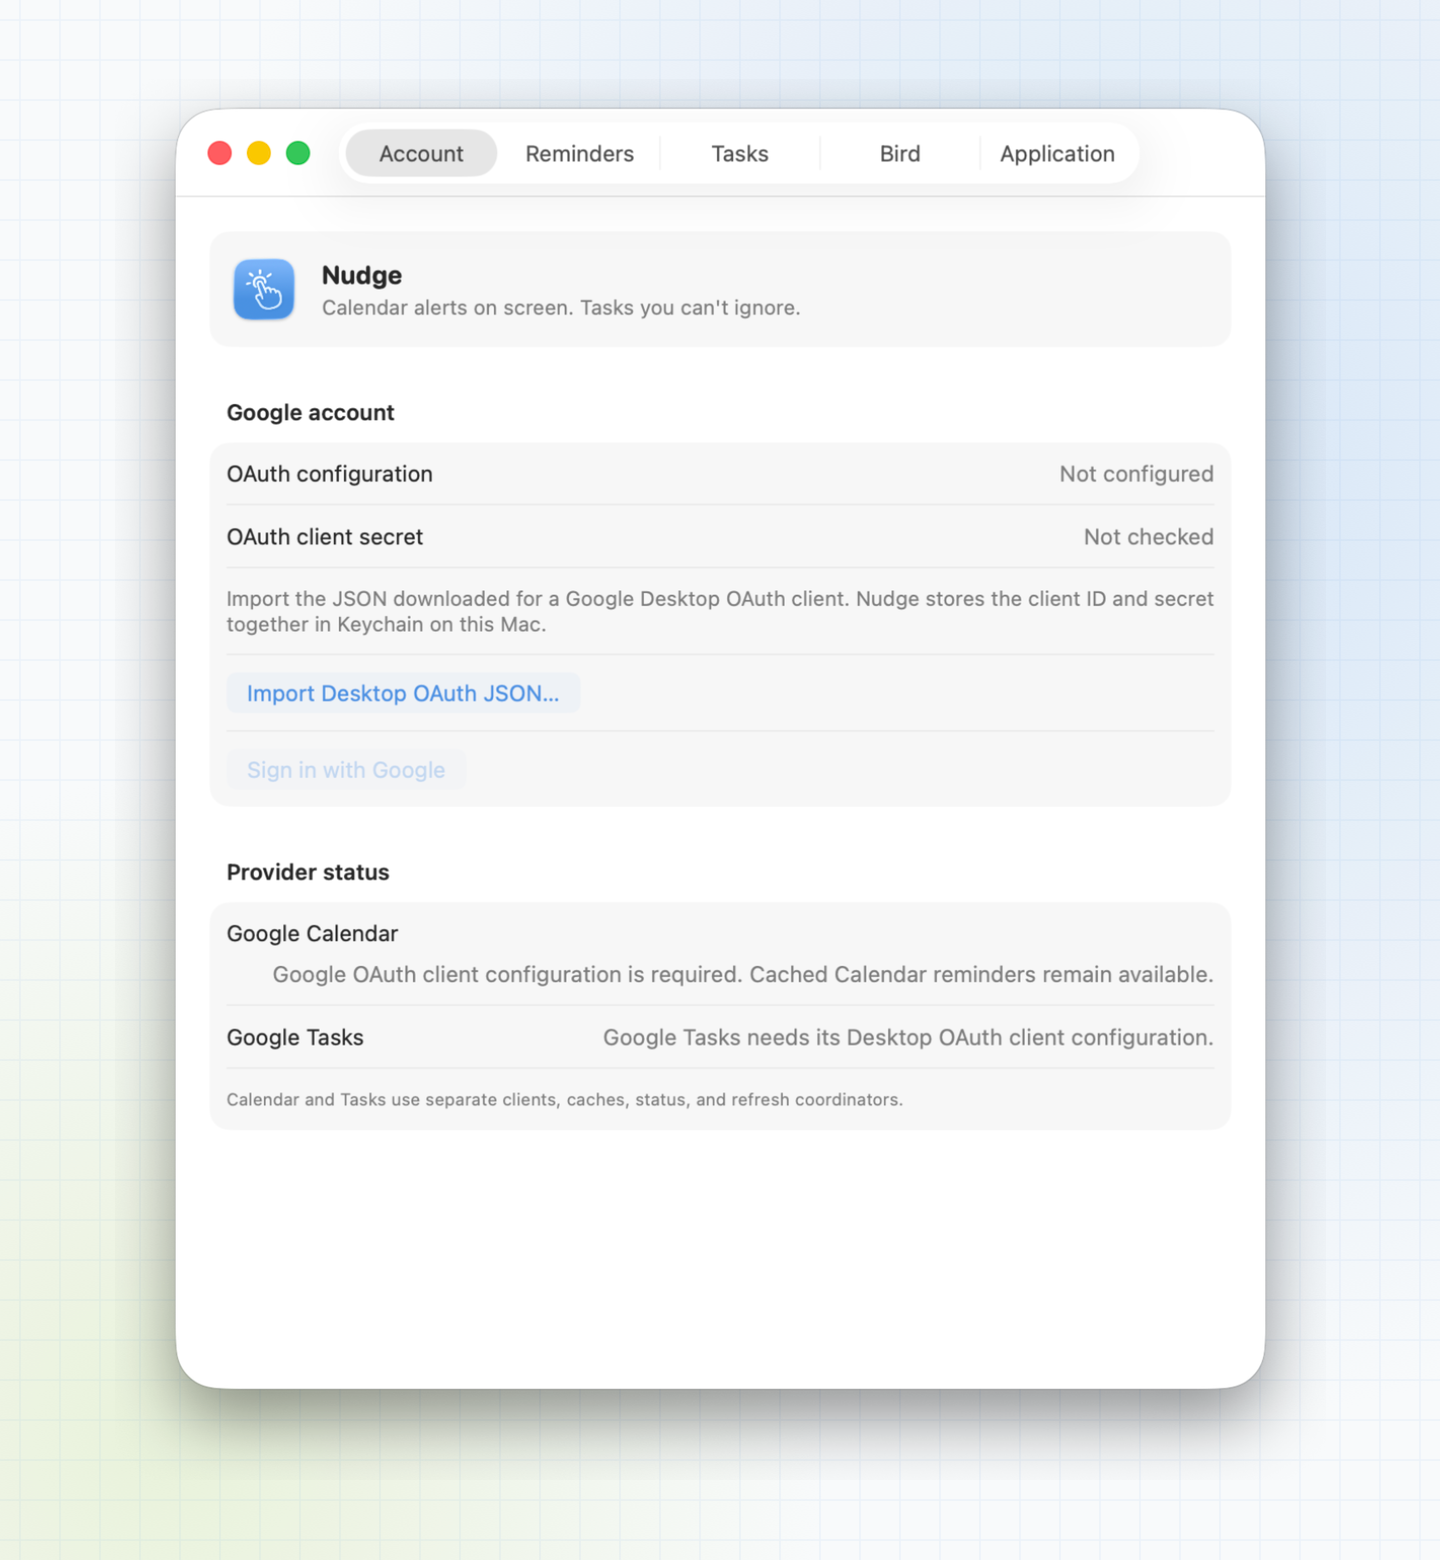
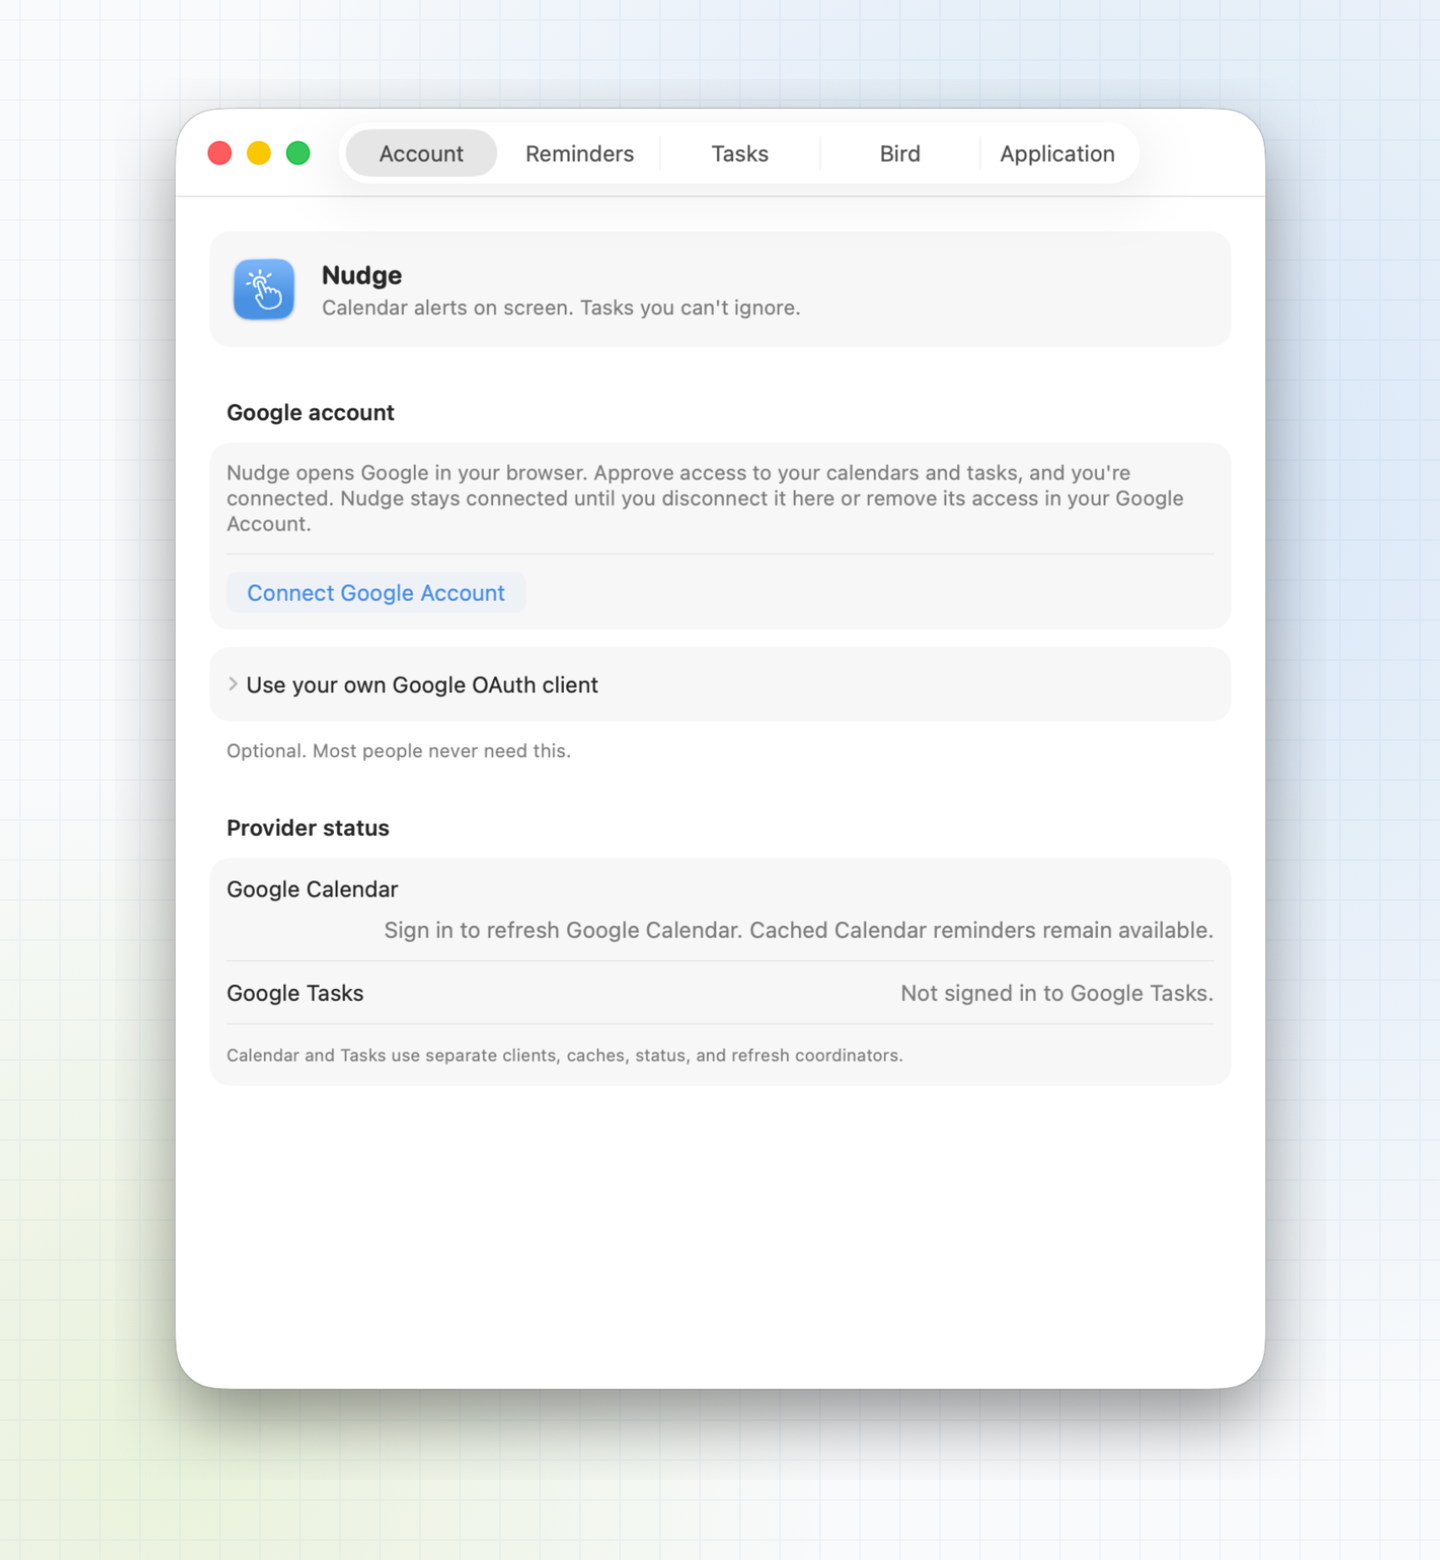
Make Account settings a one-click Google connect
- Show a single Connect Google Account action when the release has a built-in client
- Move OAuth import and client-secret controls into a collapsed "Use your own Google OAuth client" group
- Allow importing a client alongside the built-in one while signed out
- Give the screenshot demo fictional built-in values and recapture the Account page

Changed region(s): [[0.1562, 0.2769, 0.8438, 0.7077]]

diff --git a/Sources/Nudge/Settings/SettingsView.swift b/Sources/Nudge/Settings/SettingsView.swift
@@ -98,90 +98,32 @@ struct SettingsView: View {
             }
 
             Section("Google account") {
-                LabeledContent(
-                    "OAuth configuration",
-                    value: googleOAuthConfigurationManager.source?.label ?? "Not configured"
-                )
-                LabeledContent(
-                    "OAuth client secret",
-                    value: clientSecretStatus
-                )
-
-                if googleOAuthConfigurationManager.source == nil {
+                if usesBuiltInGoogleClient {
                     Text(
-                        "Import the JSON downloaded for a Google Desktop OAuth client. " +
-                            "Nudge stores the client ID and secret together in Keychain on this Mac."
+                        "Nudge opens Google in your browser. Approve access to your calendars " +
+                            "and tasks, and you're connected. Nudge stays connected until you " +
+                            "disconnect it here or remove its access in your Google Account."
                     )
                     .font(.callout)
                     .foregroundStyle(.secondary)
-                } else if googleOAuthConfigurationManager.source == .bundled {
-                    Text("This build includes its Desktop OAuth configuration.")
-                        .font(.callout)
-                        .foregroundStyle(.secondary)
-                } else if googleOAuthConfigurationManager.source == .imported {
-                    Text("The imported Desktop OAuth configuration is stored only in Keychain.")
-                        .font(.callout)
-                        .foregroundStyle(.secondary)
-                }
-
-                if googleOAuthConfigurationManager.source == nil ||
-                    googleOAuthConfigurationManager.source == .imported {
-                    HStack {
-                        Button(
-                            googleOAuthConfigurationManager.hasImportedConfiguration
-                                ? "Import Replacement JSON…"
-                                : "Import Desktop OAuth JSON…"
-                        ) {
-                            isImportingGoogleOAuthConfiguration = true
-                        }
-                        .disabled(!canModifyGoogleOAuthConfiguration)
-
-                        if googleOAuthConfigurationManager.hasImportedConfiguration {
-                            Button("Remove Imported Configuration", role: .destructive) {
-                                removeImportedGoogleOAuthConfiguration()
-                            }
-                            .disabled(!canModifyGoogleOAuthConfiguration)
-                        }
-                    }
-                } else if !googleTasksCoordinator.hasBundledClientSecret {
-                    if !googleTasksCoordinator.hasStoredClientSecret {
-                        HStack {
-                            SecureField(
-                                "Optional desktop client secret",
-                                text: $googleClientSecretDraft.value
-                            )
-                            Button("Save") {
-                                _ = googleClientSecretDraft.save {
-                                    googleTasksCoordinator.saveClientSecret($0)
-                                }
-                            }
-                            .disabled(googleClientSecretDraft.value.isEmpty)
-                        }
-                    } else {
-                        Button("Remove Client Secret") {
-                            googleTasksCoordinator.removeClientSecret()
-                        }
-                        .disabled(
-                            googleTasksCoordinator.isAuthenticated || providerOperationInProgress
-                        )
-                    }
-                }
-
-                if let googleOAuthConfigurationStatusMessage {
-                    Text(googleOAuthConfigurationStatusMessage)
-                        .font(.callout)
-                        .foregroundStyle(.secondary)
-                } else if let secureStoreStatusMessage =
-                    googleOAuthConfigurationManager.secureStoreStatusMessage {
-                    Text(secureStoreStatusMessage)
-                        .font(.callout)
-                        .foregroundStyle(.orange)
+                } else {
+                    oauthClientControls
                 }
 
                 accountAction
 
                 if calendarCoordinator.isAuthenticating || googleTasksCoordinator.isAuthenticating {
                     ProgressView().controlSize(.small)
+                }
+            }
+
+            if usesBuiltInGoogleClient {
+                Section {
+                    DisclosureGroup("Use your own Google OAuth client") {
+                        oauthClientControls
+                    }
+                } footer: {
+                    Text("Optional. Most people never need this.")
                 }
             }
 
@@ -455,6 +397,115 @@ struct SettingsView: View {
         .formStyle(.grouped)
     }
 
+    /// Lets people who build Nudge themselves, or prefer their own Google Cloud project,
+    /// import a Desktop OAuth client instead of the one built into the release.
+    @ViewBuilder
+    private var oauthClientControls: some View {
+        LabeledContent(
+            "OAuth configuration",
+            value: googleOAuthConfigurationManager.source?.label ?? "Not configured"
+        )
+        LabeledContent(
+            "OAuth client secret",
+            value: clientSecretStatus
+        )
+
+        if googleOAuthConfigurationManager.source == nil {
+            Text(
+                "Import the JSON downloaded for a Google Desktop OAuth client. " +
+                    "Nudge stores the client ID and secret together in Keychain on this Mac."
+            )
+            .font(.callout)
+            .foregroundStyle(.secondary)
+        } else if googleOAuthConfigurationManager.source == .bundled {
+            Text(
+                "Import a Desktop OAuth JSON to sign in through your own Google Cloud project " +
+                    "instead of Nudge's."
+            )
+            .font(.callout)
+            .foregroundStyle(.secondary)
+        } else if googleOAuthConfigurationManager.source == .imported {
+            Text("The imported Desktop OAuth configuration is stored only in Keychain.")
+                .font(.callout)
+                .foregroundStyle(.secondary)
+        }
+
+        if canImportGoogleOAuthConfiguration {
+            HStack {
+                Button(
+                    googleOAuthConfigurationManager.hasImportedConfiguration
+                        ? "Import Replacement JSON…"
+                        : "Import Desktop OAuth JSON…"
+                ) {
+                    isImportingGoogleOAuthConfiguration = true
+                }
+                .disabled(!canModifyGoogleOAuthConfiguration)
+
+                if googleOAuthConfigurationManager.hasImportedConfiguration {
+                    Button("Remove Imported Configuration", role: .destructive) {
+                        removeImportedGoogleOAuthConfiguration()
+                    }
+                    .disabled(!canModifyGoogleOAuthConfiguration)
+                }
+            }
+            if !canModifyGoogleOAuthConfiguration {
+                Text("Disconnect the Google account before changing its OAuth client.")
+                    .font(.caption)
+                    .foregroundStyle(.secondary)
+            }
+        } else if !googleTasksCoordinator.hasBundledClientSecret {
+            if !googleTasksCoordinator.hasStoredClientSecret {
+                HStack {
+                    SecureField(
+                        "Optional desktop client secret",
+                        text: $googleClientSecretDraft.value
+                    )
+                    Button("Save") {
+                        _ = googleClientSecretDraft.save {
+                            googleTasksCoordinator.saveClientSecret($0)
+                        }
+                    }
+                    .disabled(googleClientSecretDraft.value.isEmpty)
+                }
+            } else {
+                Button("Remove Client Secret") {
+                    googleTasksCoordinator.removeClientSecret()
+                }
+                .disabled(
+                    googleTasksCoordinator.isAuthenticated || providerOperationInProgress
+                )
+            }
+        }
+
+        if let googleOAuthConfigurationStatusMessage {
+            Text(googleOAuthConfigurationStatusMessage)
+                .font(.callout)
+                .foregroundStyle(.secondary)
+        } else if let secureStoreStatusMessage =
+            googleOAuthConfigurationManager.secureStoreStatusMessage {
+            Text(secureStoreStatusMessage)
+                .font(.callout)
+                .foregroundStyle(.orange)
+        }
+    }
+
+    /// The release ships a complete Desktop client, so signing in needs no setup.
+    private var usesBuiltInGoogleClient: Bool {
+        googleOAuthConfigurationManager.source == .bundled &&
+            googleTasksCoordinator.hasBundledClientSecret
+    }
+
+    private var canImportGoogleOAuthConfiguration: Bool {
+        switch googleOAuthConfigurationManager.source {
+        case nil, .imported:
+            return true
+        case .bundled:
+            return googleTasksCoordinator.hasBundledClientSecret
+        case .environment:
+            return false
+        }
+    }
+
     @ViewBuilder
     private var accountAction: some View {
         if calendarCoordinator.needsScopeUpgrade {
@@ -472,7 +523,7 @@ struct SettingsView: View {
             }
             .disabled(providerOperationInProgress)
         } else {
-            Button("Sign in with Google") {
+            Button("Connect Google Account") {
                 Task {
                     _ = await calendarCoordinator.signInWithGoogle()
                     googleTasksCoordinator.accountDidAuthenticate()

diff --git a/Sources/Nudge/App/AppDelegate.swift b/Sources/Nudge/App/AppDelegate.swift
@@ -83,8 +83,10 @@ final class AppDelegate: NSObject, NSApplicationDelegate {
             oauthConfigurationManager = GoogleOAuthClientConfigurationManager(
                 store: screenshotDemoDependencies.clientConfigurationStore,
                 environment: [:],
-                bundledClientID: nil,
-                bundledClientSecret: nil
+                // Fictional values so the Account page shows the release's one-click Connect
+                // state. The demo transport never sends them anywhere.
+                bundledClientID: ScreenshotDemoDependencies.builtInClientID,
+                bundledClientSecret: ScreenshotDemoDependencies.builtInClientSecret
             )
             launchAtLoginManager = LaunchAtLoginManager(
                 service: screenshotDemoDependencies.launchAtLoginService

diff --git a/Sources/Nudge/App/ScreenshotDemoDependencies.swift b/Sources/Nudge/App/ScreenshotDemoDependencies.swift
@@ -405,6 +405,8 @@ struct ScreenshotDemoDependencies {
     }
 
     /// The fixed line the bird says while perched on the calendar alert.
+    static let builtInClientID = "screenshot-demo.apps.googleusercontent.com"
+    static let builtInClientSecret = "screenshot-demo-secret"
     static let birdAlertLine = "Design review in a few. Find your headphones now, not in a panic later."
 
     private func seedRepositories() throws {
